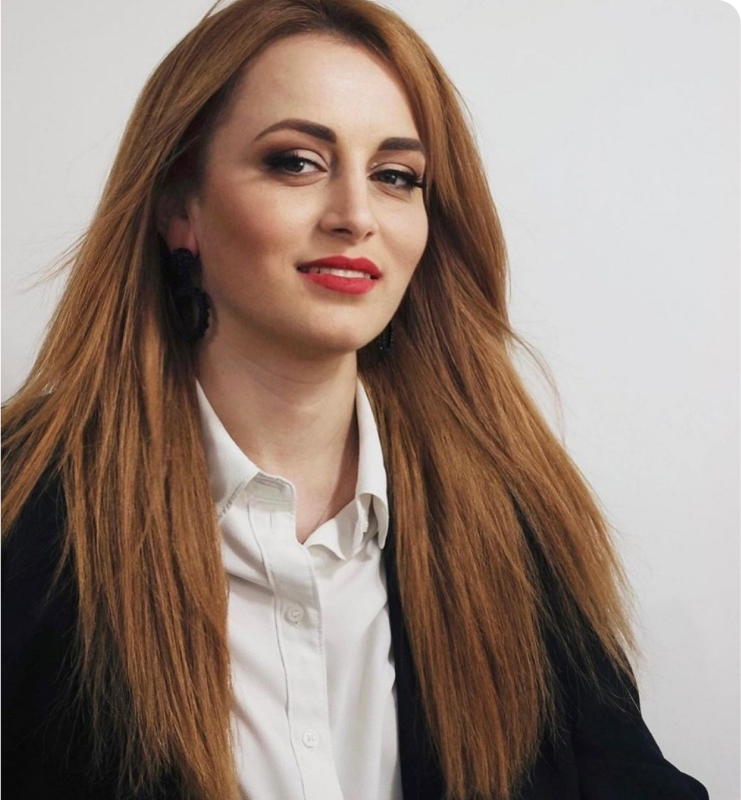
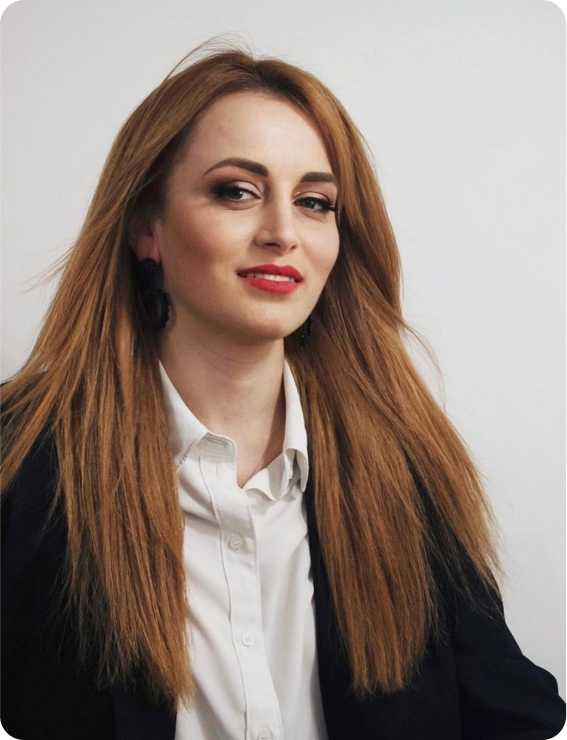
3

diff --git a/src/components/Advantages/Advantages.styles.css b/src/components/Advantages/Advantages.styles.css
@@ -9,13 +9,15 @@
     padding: 40px 76.5px;
   }
 
-  @media screen and (min-width: 1920px) {
-    padding: 80px 0;
+  @media screen and (min-width: 1200px) {
+    padding: 60px 0;
   }
 }
 
 .Advantages-title {
   margin-bottom: 24px;
+  text-align: center;
+
   color: var(--text, #352d25);
 
   font-family: Roboto;
@@ -33,13 +35,11 @@
     letter-spacing: 0.4px;
   }
 
-  @media screen and (min-width: 1920px) {
-    margin-bottom: 40px;
+  @media screen and (min-width: 1200px) {
+    font-size: 80px;
 
-    text-align: center;
-    font-size: 96px;
     line-height: 150%;
-    letter-spacing: 0.96px;
+    letter-spacing: 0.8px;
   }
 }
 
@@ -52,7 +52,7 @@
     margin-right: 52px;
   }
 
-  @media screen and (min-width: 1920px) {
+  @media screen and (min-width: 1200px) {
     margin-left: 0;
     margin-right: 0;
 
@@ -66,27 +66,19 @@
 
   margin-bottom: 24px;
 
-  &:not(:last-child) {
-    @media screen and (max-width: 768px) {
-      margin-bottom: 0;
-    }
-  }
-
   @media screen and (min-width: 768px) {
     margin-bottom: 32px;
   }
 
-  @media screen and (min-width: 1920px) {
-    margin-bottom: 40px;
-    flex-basis: calc((100% - 2 * 60px) / 2);
+  @media screen and (min-width: 1200px) {
+    margin-bottom: 24px;
+    margin-right: 30px;
   }
 }
 
-/* .advantages-item:nth-child(3n) {
-  @media screen and (min-width: 1920px) {
-    margin-bottom: 0;
-  }
-} */
+.Advantages-item:last-child {
+  margin-bottom: 0;
+}
 
 .Advantages-image {
   margin-right: 10px;
@@ -96,7 +88,7 @@
     height: 47px;
   }
 
-  @media screen and (min-width: 1920px) {
+  @media screen and (min-width: 1200px) {
     margin-right: 32px;
 
     width: 132px;
@@ -119,8 +111,68 @@
     letter-spacing: 0.24px;
   }
 
-  @media screen and (min-width: 768px) {
+  @media screen and (min-width: 1200px) {
     font-size: 38px;
     line-height: 150%;
+  }
+}
+
+.command__list {
+  text-align: -webkit-center;
+  margin: 0;
+
+  @media screen and (min-width: 768px) {
+    display: flex;
+    flex-wrap: wrap;
+    margin: -15px;
+  }
+
+  @media screen and (min-width: 1200px) {
+    display: flex;
+    margin: -15px;
+  }
+
+  .command__item {
+    max-width: 100%;
+    height: auto;
+    width: 480px;
+
+    &:not(:last-child) {
+      @media screen and (max-width: 767px) {
+        margin-bottom: 30px;
+      }
+    }
+
+    @media screen and (min-width: 480px) {
+      @media screen and (min-width: 768px) {
+        width: 354px;
+        margin: 15px;
+        flex-basis: calc((100% - 2 * 30px) / 2);
+      }
+
+      @media screen and (min-width: 1200px) {
+        width: 270px;
+        margin: 15px;
+        flex-basis: calc((100% - 4 * 30px) / 4);
+      }
+
+      img {
+        width: 450px;
+
+        @media screen and (min-width: 480px) {
+          width: 480px;
+        }
+
+        @media screen and (min-width: 1200px) {
+          width: 300px;
+        }
+      }
+
+      box-shadow: 0px 1px 3px rgba(0, 0, 0, 0.12),
+        0px 1px 1px rgba(0, 0, 0, 0.14), 0px 2px 1px rgba(0, 0, 0, 0.2);
+      border-radius: 0px 0px 4px 4px;
+
+      background: var(--primary-fon-color);
+    }
   }
 }

diff --git a/src/components/AboutMe/AboutMe.styled.css b/src/components/AboutMe/AboutMe.styled.css
@@ -10,7 +10,7 @@
     margin-top: 15px;
   }
 
-  @media screen and (min-width: 1920px) {
+  @media screen and (min-width: 1200px) {
     width: 500px;
     height: 250px;
   }
@@ -43,12 +43,13 @@
     letter-spacing: 0.4px;
   }
 
-  @media screen and (min-width: 1920px) {
-    margin-bottom: 60px;
+  @media screen and (min-width: 1200px) {
+    margin-bottom: 48px;
 
-    font-size: 96px;
-    line-height: 150%;
-    letter-spacing: 0.96px;
+    font-size: 80px;
+    font-style: italic;
+
+    letter-spacing: 0.8px;
   }
 }
 
@@ -58,7 +59,7 @@
     margin-bottom: 84px;
   }
 
-  @media screen and (min-width: 1920px) {
+  @media screen and (min-width: 1200px) {
     display: flex;
     margin-bottom: 100px;
   }
@@ -88,15 +89,16 @@
     border-right: 1px solid var(--amber, #f0e2ca);
   }
 
-  @media screen and (min-width: 1920px) {
+  @media screen and (min-width: 1200px) {
     display: flex;
-    padding: 30px 30px 0px 0px;
+    padding: 20px 20px 20px 0px;
     justify-content: center;
     align-items: center;
     gap: 10px;
 
-    width: 740px;
-    margin-right: 60px;
+    width: 566px;
+    height: 740px;
+    margin-right: 30px;
 
     border-radius: 0px 24px 24px 0px;
     border-top: 1px solid var(--amber, #f0e2ca);
@@ -115,8 +117,9 @@
     width: 270px;
   }
 
-  @media screen and (min-width: 1920px) {
-    width: 740px;
+  @media screen and (min-width: 1200px) {
+    width: 546px;
+    height: 700px;
   }
 }
 
@@ -125,7 +128,7 @@
     width: 388px;
   }
 
-  @media screen and (min-width: 1920px) {
+  @media screen and (min-width: 1200px) {
     width: 710px;
   }
 }
@@ -133,7 +136,7 @@
 .About-item {
   margin-bottom: 8px;
 
-  color: #292525;
+  color: var(--text, #352d25);
 
   font-family: Roboto;
   font-size: 14px;
@@ -142,10 +145,10 @@
   line-height: 140%;
   letter-spacing: 0.14px;
 
-  @media screen and (min-width: 1920px) {
+  @media screen and (min-width: 1200px) {
     color: var(--text, #352d25);
 
-    font-size: 32px;
-    letter-spacing: 0.32px;
+    font-size: 28px;
+    letter-spacing: 0.28px;
   }
 }

diff --git a/src/components/AboutMe/AboutMe.jsx b/src/components/AboutMe/AboutMe.jsx
@@ -1,7 +1,7 @@
 import React from 'react';
 import './AboutMe.styled.css';
 
-import myPhoto from 'img/Mobile/MyFotoMobile.webp';
+import myPhoto from 'img/Desktop/MyFotoDesktop.webp';
 import vectorDesktop from 'svg/Vectordesktop.svg';
 
 export default function AboutMe() {

diff --git a/src/components/GlobalStyles.jsx b/src/components/GlobalStyles.jsx
@@ -62,9 +62,9 @@ img {
   }
 
   @media screen and (min-width: 1200px) {
-    padding-left: 160px;
-    padding-right: 160px;
-    width: 1920px;
+    padding-left: 0;
+    padding-right: 0;
+    width: 1200px;
   }
 
 }
